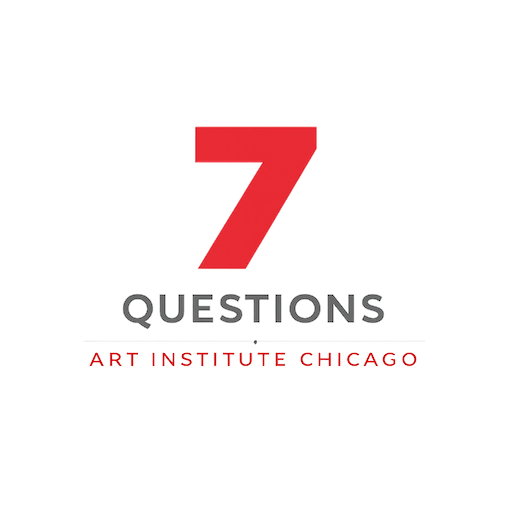
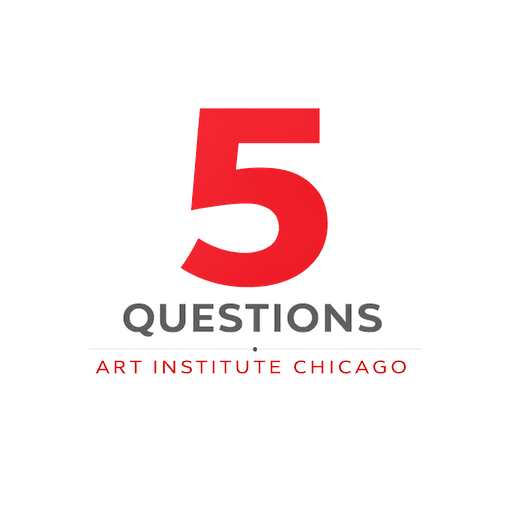
feat: go with 5

Changed region(s): [[0.1562, 0.1875, 0.8125, 0.75]]

diff --git a/app/layout.tsx b/app/layout.tsx
@@ -16,7 +16,7 @@ const geistMono = Geist_Mono({
 });
 
 export const metadata: Metadata = {
-  title: "Seven Questions a Day from the Art Institute of Chicago",
+  title: "Five Questions a Day about Art | Art Institute of Chicago",
   description:
     "Built this simple quiz app to test your knowledge about famous artworks from the Art Institute of Chicago.",
   manifest: "/manifest.json",
